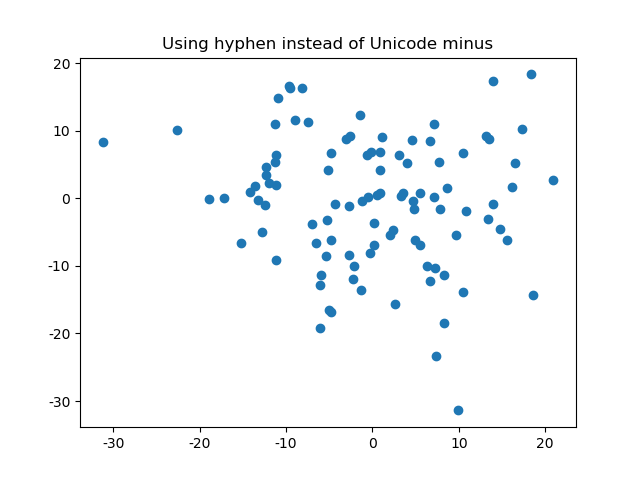
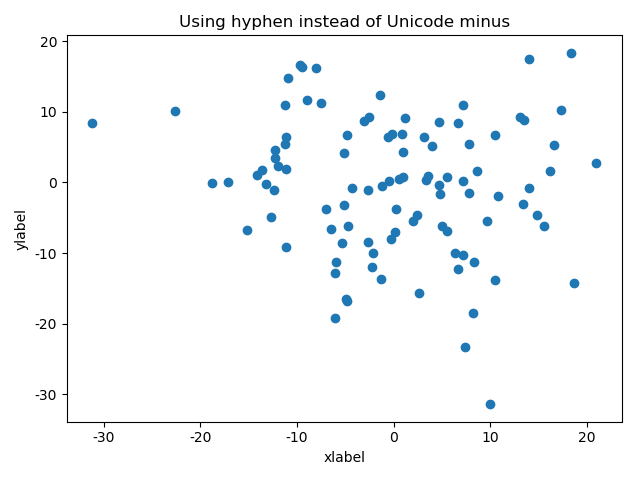
p9_3

diff --git a/pythontest/p9_3.py b/pythontest/p9_3.py
@@ -10,4 +10,8 @@ matplotlib.rcParams['axes.unicode_minus'] = False
 fig, ax = plt.subplots()
 ax.plot(10*np.random.randn(100), 10*np.random.randn(100), 'o')
 ax.set_title('Using hyphen instead of Unicode minus')
+ax.set_xlabel('xlabel')
+ax.set_ylabel('ylabel')
+fig.tight_layout()
+
 plt.show()
